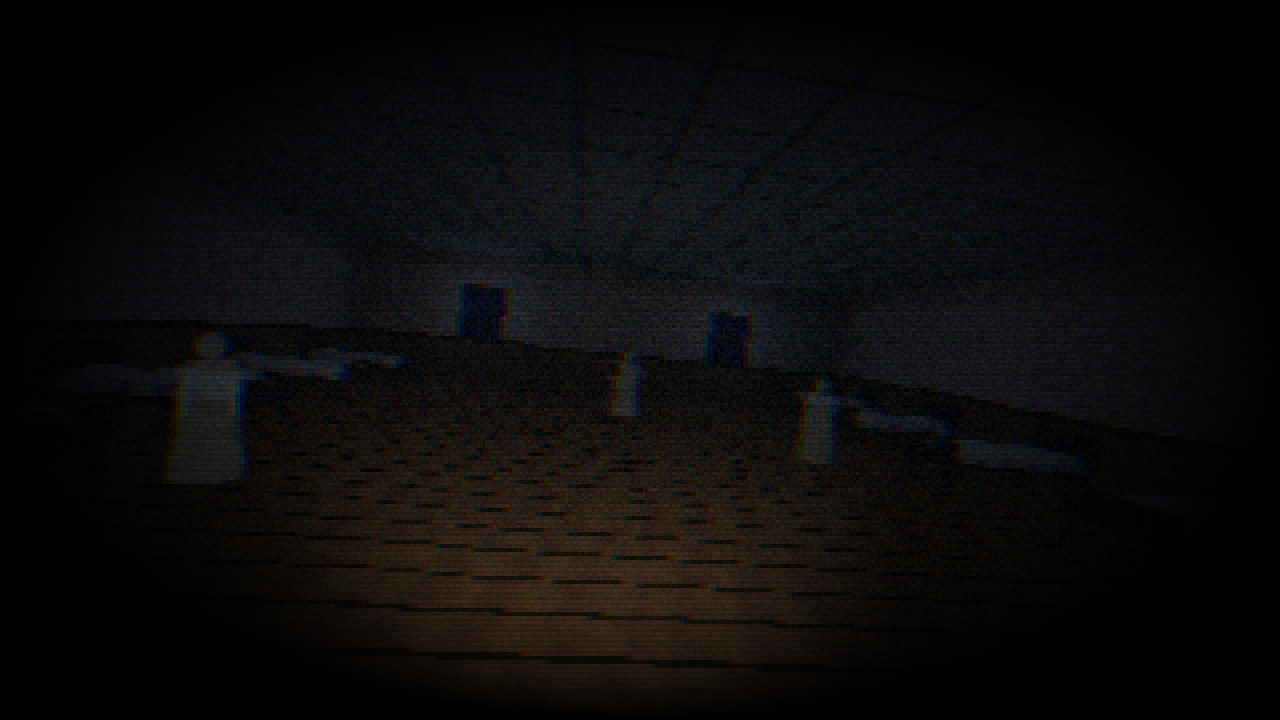
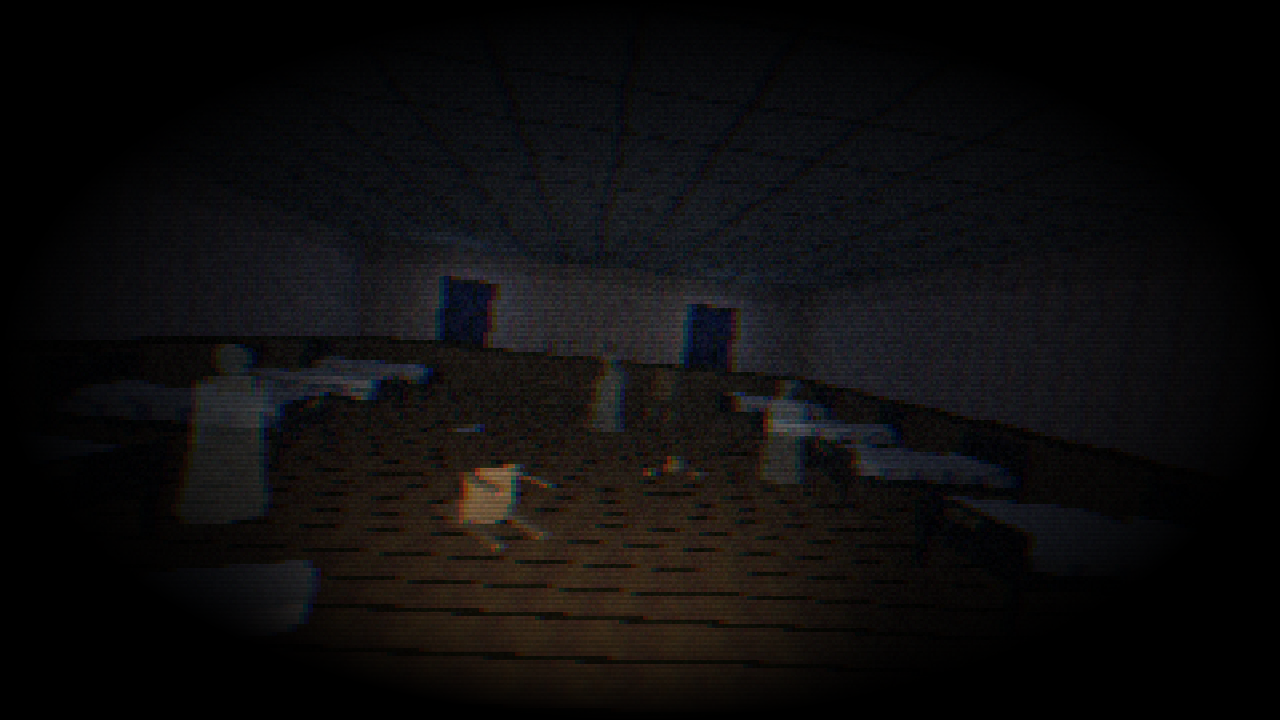
Re-render Tommy, low-sanity and rewind stills in the smaller dorm
Claude-Session: https://claude.ai/code/session_01Kt2ajWcwzg7QhP3mDk3ZUu

diff --git a/CHANGELOG.md b/CHANGELOG.md
@@ -2,6 +2,7 @@
 
 Newest first. One line per change.
 
+- 0.1.16 — Tommy, low-sanity and rewind stills re-rendered in the approved smaller dorm.
 - 0.1.15 — Dorm mockup revised after owner feedback: smaller room (10 beds), more mess (unmade beds, sheet pile, toppled chair, papers, blocks); new props chair, papers, blocks, sheet pile.
 - 0.1.14 — 0.2 design picks recorded; mockup stills for intro, hub, dorm, Tommy, low sanity and rewind rendered with the real engine (props, room textures, per-level ambient, new screen effects: blur, aberration, eyelids, vignette, rewind).
 - 0.1.13 — Sound batch 4: VHS rewind/insert/eject, tape hiss, tinnitus, radio static, menu blip, waking gasp, drip, fluorescent buzz (owner confirmed CC0). All 0.2 sounds are in; sound script gains a start offset.
